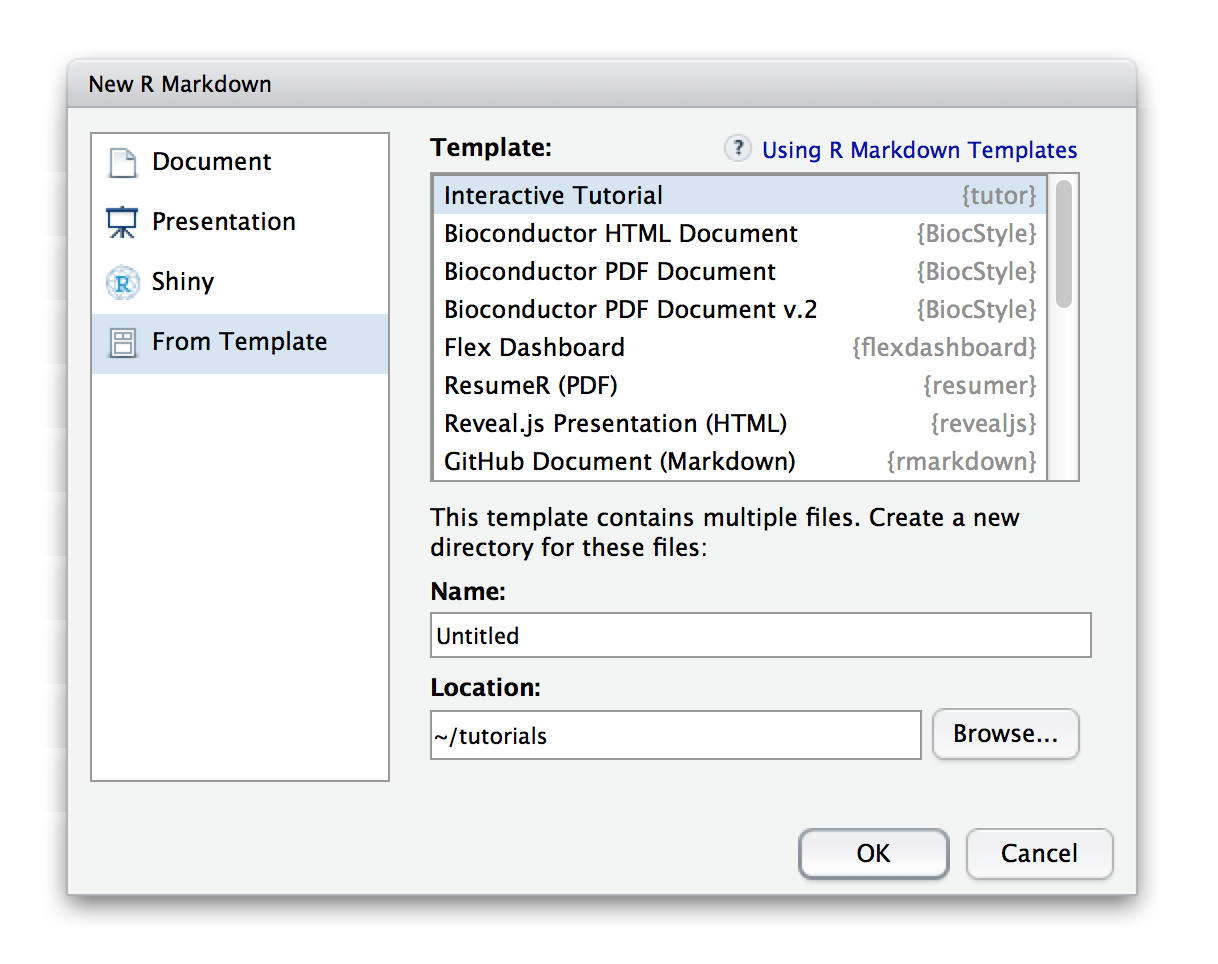
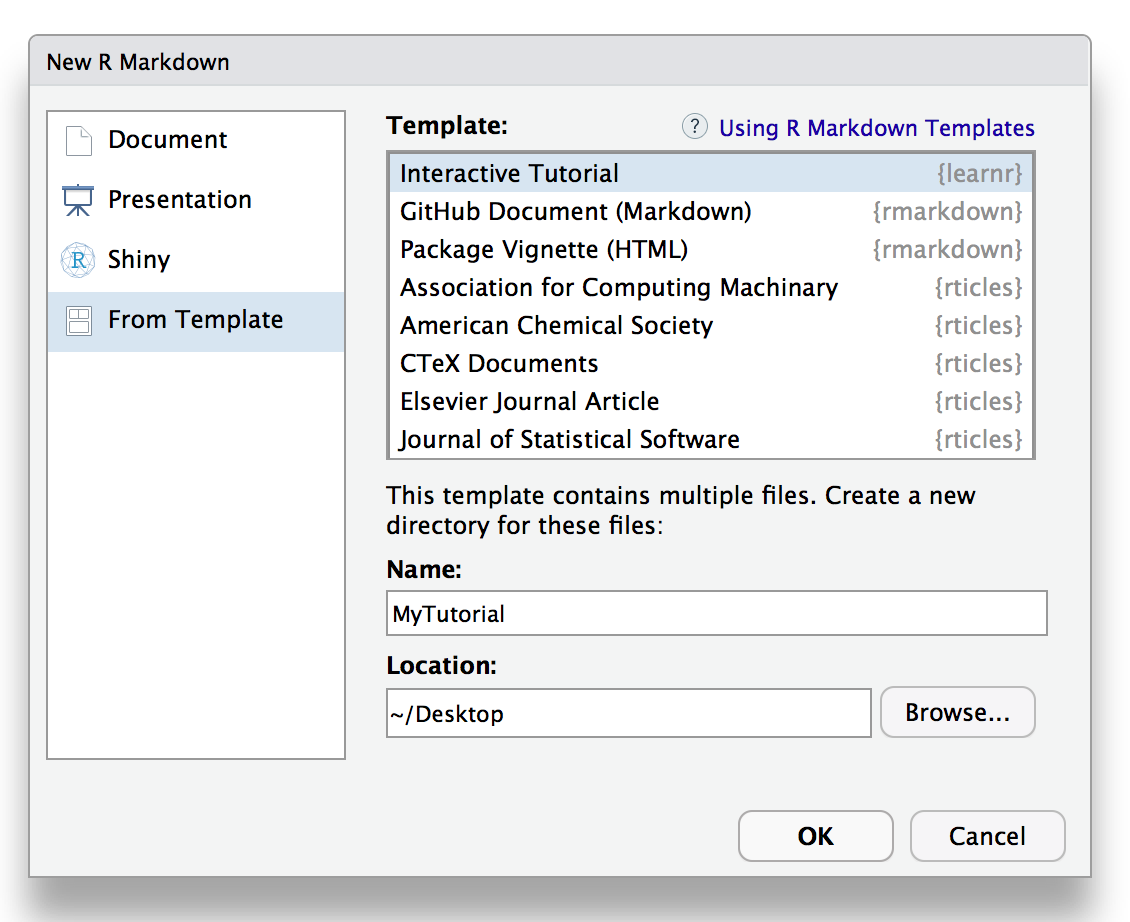
update images for new package name

Changed region(s): [[0.0, 0.0304, 0.9912, 1.0], [0.2788, 0.7896, 0.3097, 0.82]]

diff --git a/docs/index.html b/docs/index.html
@@ -377,7 +377,7 @@ div.tocify {
 </div>
 <script type="text/javascript">loadSnippet('hellotutor')</script>
 <p>This is what the running tutorial document looks like after the user has entered their answer:</p>
-<p><img src="images/hello.png"  width="879" height="279" style="border: solid 1px #cccccc;"/></p>
+<p><img src="images/hello.png"  width="810" height="207" style="border: solid 1px #cccccc;"/></p>
 </div>
 </div>
 <div id="getting-started" class="section level2">
@@ -404,7 +404,7 @@ div.tocify {
 <p>While you can use tutorial elements many different R Markdown formats (see the article on <a href="formats.html">Tutorial Formats</a> for details), the <strong>learnr</strong> package also includes a custom <code>learnr::tutorial</code> format which provides some default layout and behavior (including progress tracking) which you’ll likely want to use in many of your tutorials.</p>
 <p>You can create a new <code>learnr::tutorial</code> document from a template via the <strong>New R Markdown</strong> dialog in RStudio:</p>
 <div class="figure">
-<img src="images/create-new-tutorial.png" width="609" height="482" />
+<img src="images/create-new-tutorial.png" width="565" height="461" />
 
 </div>
 <p>This is what the YAML metadata looks like for an Rmd file that uses the tutorial format:</p>

diff --git a/docs/formats.html b/docs/formats.html
@@ -354,7 +354,7 @@ div.tocify {
 <p>The format also includes features for progressively revealing sections and allowing users to optionally skip exercises they are having trouble with (both of these features are described below).</p>
 <p>You can create a new <code>learnr::tutorial</code> document from a template via the <strong>New R Markdown</strong> dialog in RStudio:</p>
 <div class="figure">
-<img src="images/create-new-tutorial.png" width="609" height="482" />
+<img src="images/create-new-tutorial.png" width="565" height="461" />
 
 </div>
 <p>The benefits of using the <code>learnr::tutorial</code> format include:</p>
